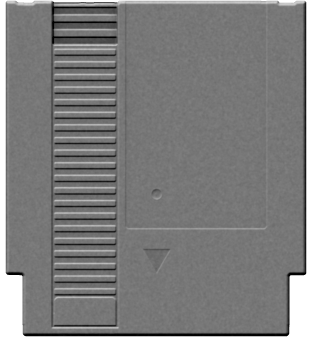
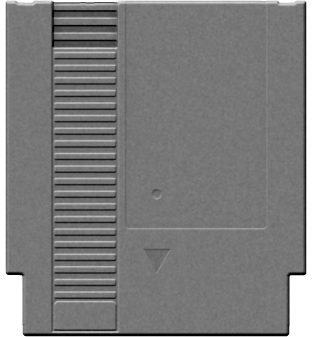
NES cart: the bottom rim half as deep, and the top grip ridge as wide as the others
Claude-Session: https://claude.ai/code/session_01129iw1QqFJMHZyH1VgW44k

Changed region(s): [[0.1731, 0.0, 0.375, 0.9199], [0.1731, 0.9496, 0.375, 1.0]]

diff --git a/tools/carts/nes_render.py b/tools/carts/nes_render.py
@@ -28,22 +28,23 @@ dist = nd.distance_transform_edt(inside)
 height += np.where(inside, np.clip(dist / (3.0 * SS), 0, 1) ** 0.5, 0) * 10
 
 # the channel and its foot pad stop above a flat rim along the bottom edge (Roy)
-channel = rect(0.156, -0.01, 0.374, 0.972) & inside
-grip = rect(0.160, -0.01, 0.370, 0.132, 0.004) & inside
+channel = rect(0.156, -0.01, 0.374, 0.985) & inside
+grip = rect(0.160, -0.01, 0.370, 0.142, 0.004) & inside
 label = rect(0.400, -0.01, 0.866, 0.678, 0.010) & inside
-panel = rect(0.163, 0.882, 0.367, 0.966, 0.014)
+panel = rect(0.163, 0.895, 0.367, 0.979, 0.014)
 height -= channel * 3.0
 height -= grip * 9.0
 # ridges from the top edge down: high, low, high, low, high, low (Roy)
 ridges = np.zeros((h, w), bool)
 for k in range(3):
-    v0 = k * 0.044
+    # the top one starts under the rounded-over top edge, so it shows as wide as the rest
+    v0 = 0.010 + k * 0.044
     ridges |= rect(0.160, -0.01 if k == 0 else v0, 0.370, v0 + 0.022)
 height += ridges * 3.5
 for k in range(20):
-    v0 = 0.146 + k * 0.0374
+    v0 = 0.156 + k * 0.0374
     height += rect(0.164, v0, 0.366, v0 + 0.0175, 0.003) * 2.6
-panel |= rect(0.163, 0.93, 0.367, 0.966)  # square at the foot (Roy)
+panel |= rect(0.163, 0.94, 0.367, 0.979)  # square at the foot (Roy)
 height += panel * 2.6
 height -= label * 1.2
 tri = poly(lambda d: d.polygon([(U(0.458), V(0.741)), (U(0.547), V(0.741)), (U(0.502), V(0.810))], fill=255))
@@ -54,7 +55,7 @@ r = np.hypot(xx - U(0.502), yy - V(0.576)) / (0.017 * w)
 height += (np.where(r < 1, -np.clip(1 - r * r, 0, 1) ** 0.6, 0) + 0.18 * np.exp(-((r - 1.02) / 0.10) ** 2)
            + 0.25 * np.exp(-(r / 0.28) ** 2) * (r < 1)) * 1.8
 # a fine seam where the channel's ridge meets the right half
-height -= rect(0.372, -0.01, 0.376, 0.972) * 0.8
+height -= rect(0.372, -0.01, 0.376, 0.985) * 0.8
 
 hs = nd.gaussian_filter(height, 1.1 * SS / 2)
 gy, gx = np.gradient(hs)
